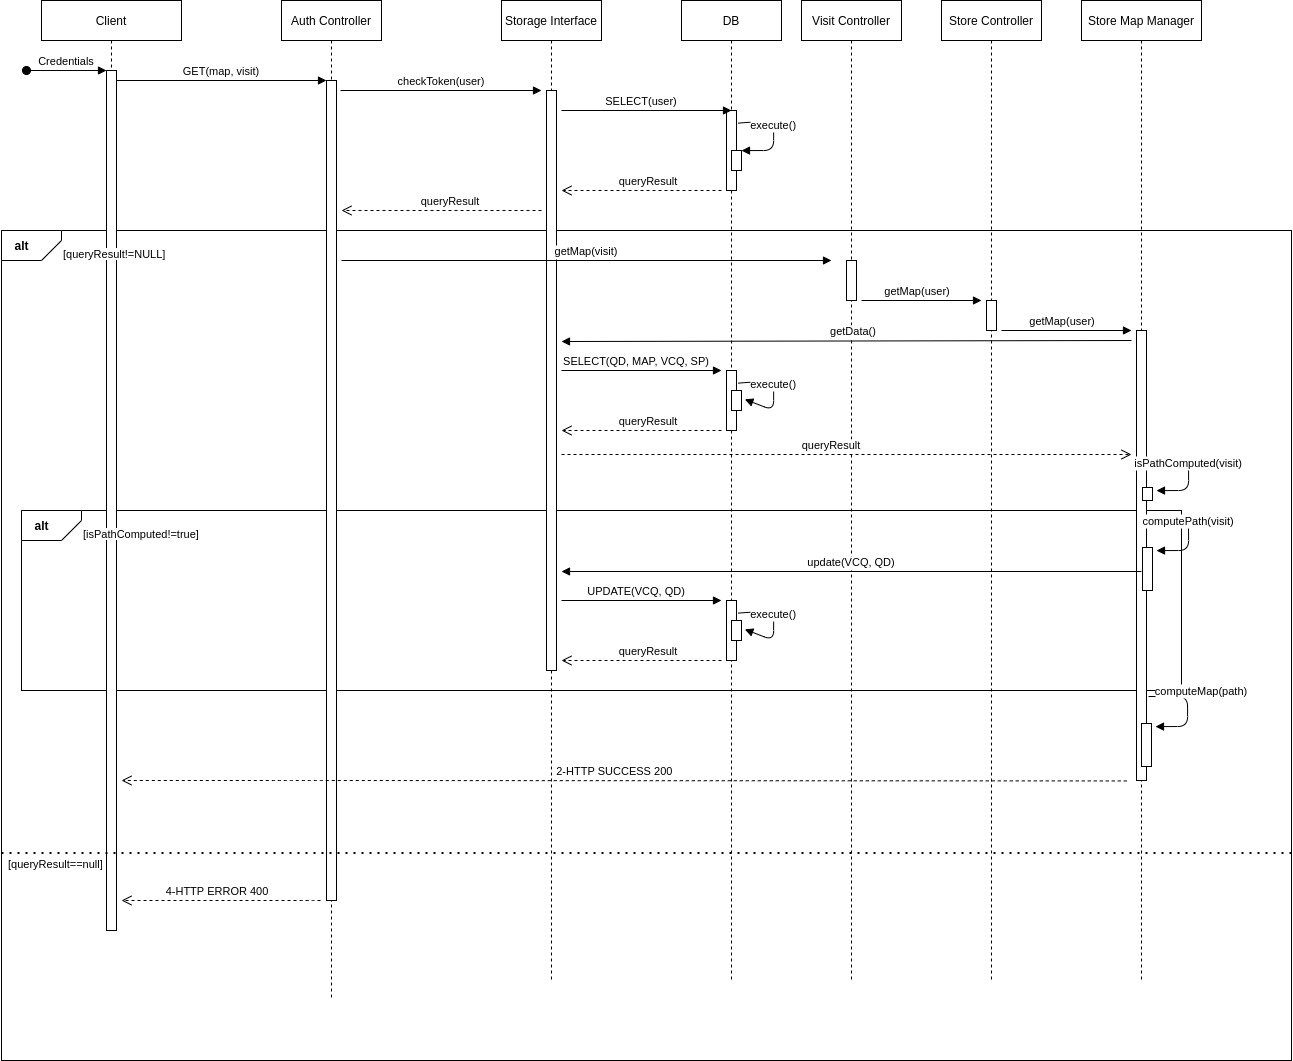
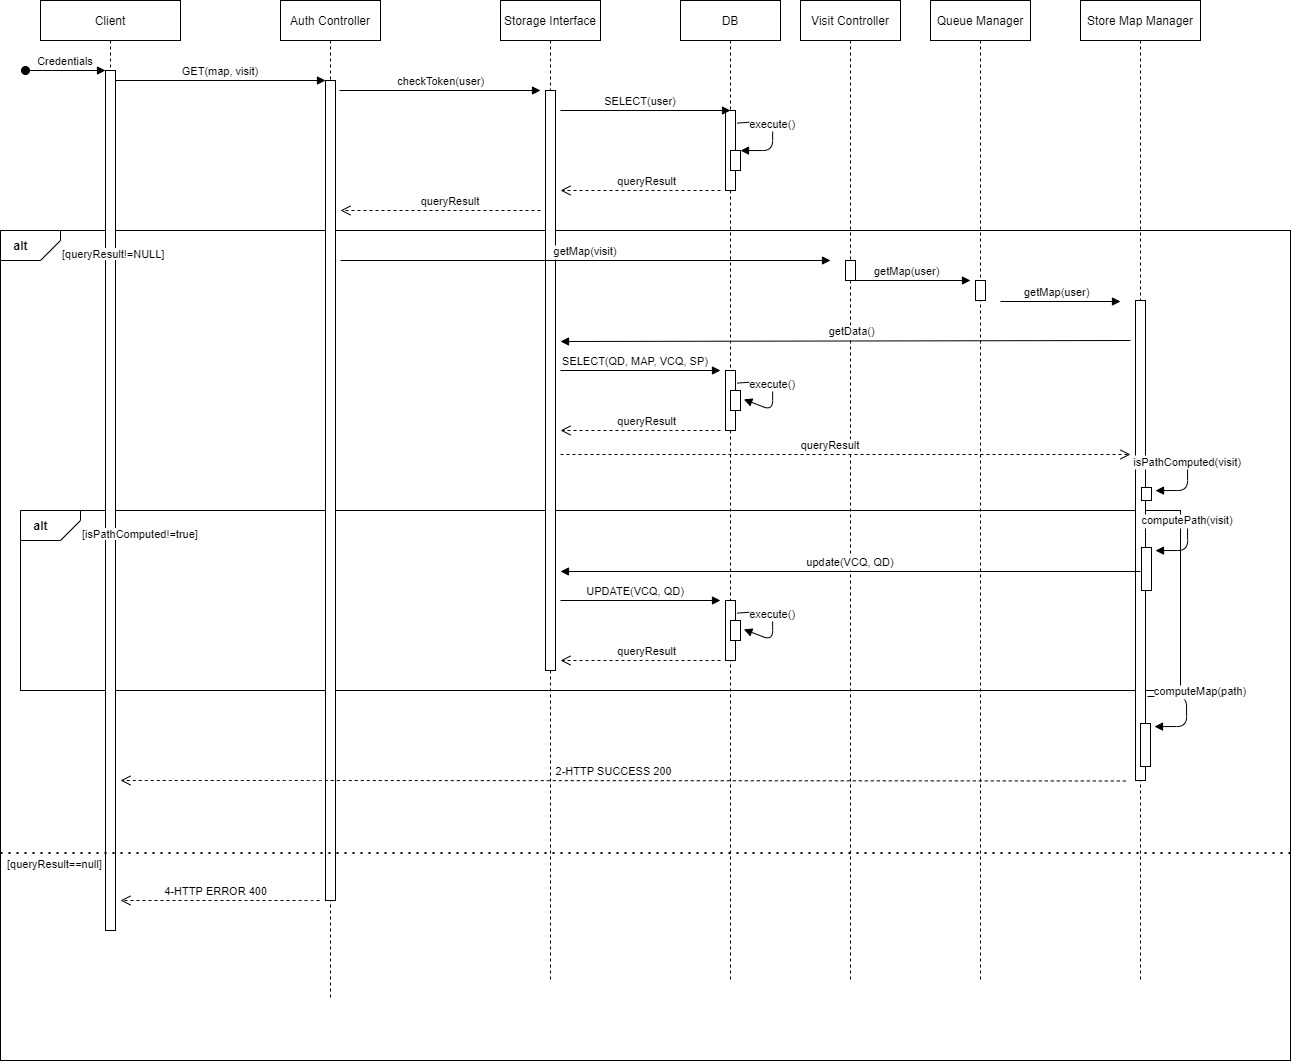
uploaded Runtime Views and diagrams related

diff --git a/DD/files/main.tex b/DD/files/main.tex
@@ -166,6 +166,53 @@ To describe the internal modular structure of the components, we show how they a
     
 \end{itemize}
 
+\subsection{Runtime View}
+
+\textbf{Registration Runtime}\\
+\\
+When a client wants to register to access the functionalities of the app, they fill a form with the required credentials. These are sent through a post request HTTP to the Auth Controller. This component checks that everything sent by the client is in the apposite format (if it is not, it responds with HTTP error code). Then it communicates with the Storage interface which sends a query to the DB to insert the credentials if they have not been already used. If they are not available, the Auth Controller sends a with 402 HTTP error code. If they are available the Auth Controller asks the Mail Service to send a confirmation e-mail to the Client and the request is Accepted. The client has to then confirm the registration through the mail, and the confirmation is handled by the Auth Controller.
+\begin{figure}[H]
+\centering
+	\centering
+  	\includegraphics[height=0.5\textheight, scale=0.5, keepaspectratio]{img/seq_diag/Register_Runtime.jpg}
+	\caption{Registration runtime sequence diagram}
+ 	\label{regRunTime}
+\end{figure}
+
+\textbf{Login Runtime}\\
+\\
+Once a client is registered, they can log into the app. The login process is handled by the Auth Controller. This receives a put request HTTP from the client and, after checking that the credentials have been sent in the right format, it delegates to the Storage interface the task of creating a query to check if the user is actually logged in and the credentials sent are correct. If they are not, the Auth Controller sends a response with an HTTP error code. Otherwise it checks whether the Client already has a valid token to access the app or not. If not it creates one and sends a request to the storage interface to query the Database for an update with the new information. It then grants the access to the app to the Client.
+\begin{figure}[H]
+\centering
+	\centering
+  	\includegraphics[height=0.5\textheight, scale=0.5, keepaspectratio]{img/seq_diag/Login_Runtime.jpg}
+	\caption{Login runtime sequence diagram}
+ 	\label{logRunTime}
+\end{figure}
+
+\textbf{Get Map Runtime}\\
+\\
+When a client has booked a Visit they should request a map to avoid crowds and speed up their shopping. 
+A Client requests the map through an HTTP request get. After having certified the credentials of the User, the Auth Controller sends the request to the Visit Controller, which sends it to the correct Queue Manager. At last the Store Controller sends the request to the Store Map Manager which, after having retrieved the necessary data from the database handles it. This component checks if the path has already been computed for the specified Visit. If not it computes one (and updates the data in the server through the Storage Interface).  While having the path, the Store Map Manager computes the map and sends an HTTP response to the Client with accepted HTTP code and the requested map.
+\begin{figure}[H]
+\centering
+	\centering
+  	\includegraphics[height=0.5\textheight, scale=0.5, keepaspectratio]{img/seq_diag/GetMap_RuntimeView.jpg}
+	\caption{Get Map runtime sequence diagram}
+ 	\label{getMapRunTime}
+\end{figure}
+
+\textbf{Access Store Runtime}\\
+\\
+When a Client accesses a Store, they scan their QR-code using the scanner provided by the Store. The Scanner communicates with the Queue Manager which checks if the User associated with the QR-code has a valid reservation for that time at that specific Store. If so, it updates the status of the reservation to see if the client is going into the Store or going outside the store. If they are going inside, the queue manager checks periodically if the user is late and it updates the queue status accordingly. If the client is going out, the queue manager updates the status of the reservation accordingly and the status of the queue if needed.
+\begin{figure}[H]
+\centering
+	\centering
+  	\includegraphics[height=0.5\textheight, scale=0.5, keepaspectratio]{img/seq_diag/AccessStore.jpg}
+	\caption{Access Store runtime sequence diagram}
+ 	\label{accessStoreRunTime}
+\end{figure}
+
 \subsection{Selected Architectural Styles and Patterns}
 \textbf{Client-Server Architecture}\\
 The Client-Server Architecture is a computing model in which multiple components work in strictly defined roles to communicate. This roles can be divided in two main categories: the Server that hosts, delivers and manages most of the resources and services, and the Client that exploits those services. This architecture is also known as a networking computing model because all the requests and services are delivered over a network. When the Client needs a service, sends a resource or process request to the Server over the network connection, which is then processed and delivered to the Client. A Client can be connected to several Servers, each providing a different set of services, and a Server can manage several Clients simultaneously.\\
